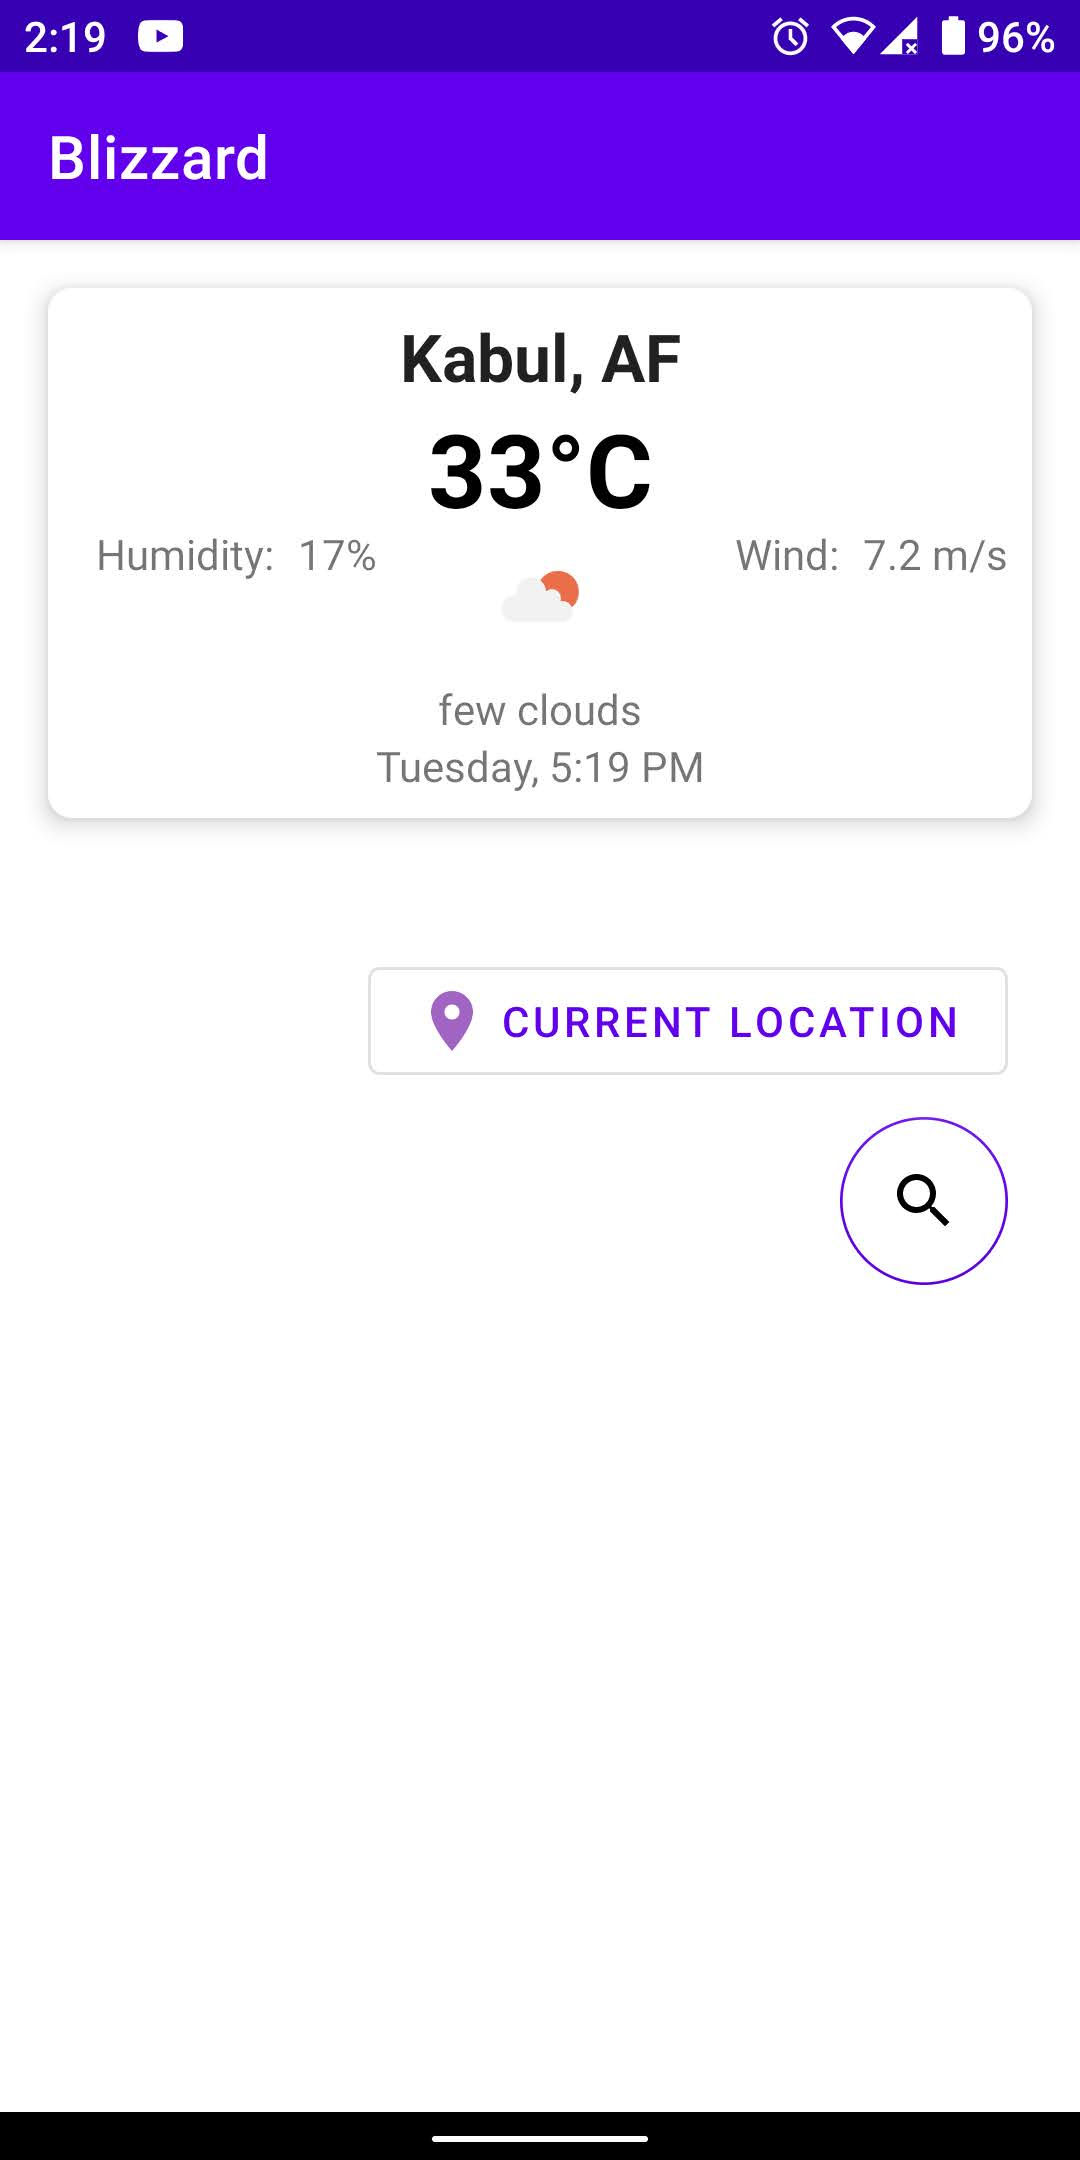
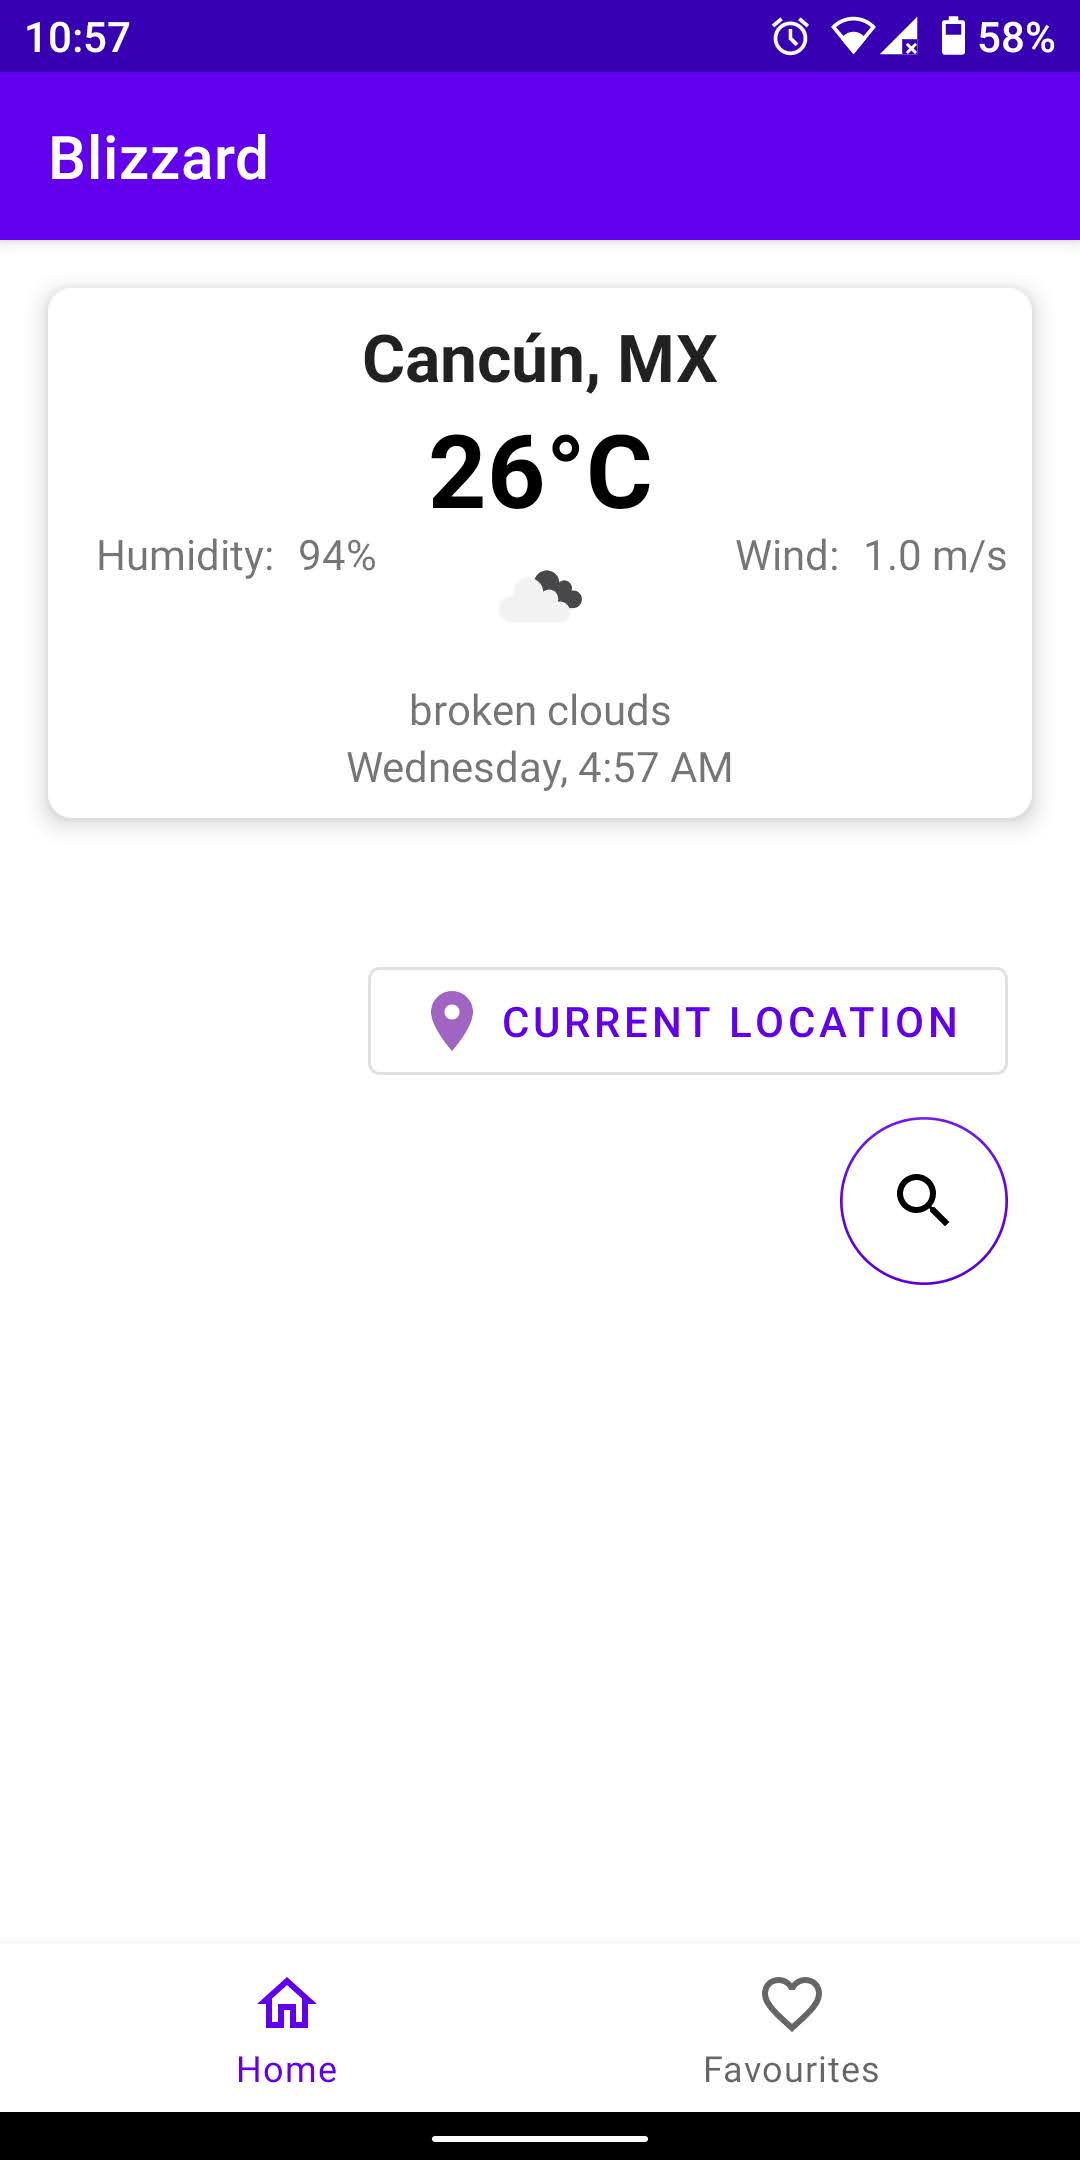
Add bottom navigation view
Added a bottom navigation view and added a
fragment that lists all the weather data
stored in the database and display them in
a recycler view.

App now displays a snack bar like before when
user enters an incorrect city name.

Update ReadMe with screenshots of current state
of the app.

diff --git a/app/src/main/java/com/example/blizzard/workers/DataUpdateWorker.java b/app/src/main/java/com/example/blizzard/workers/DataUpdateWorker.java
@@ -28,6 +28,7 @@ import retrofit2.Response;
 public class DataUpdateWorker extends ListenableWorker {
     private static final String TAG = "DataUpdateWorker";
     private final BlizzardRepository repository;
+    private Callback<WeatherDataResponse> callback;
 
     public DataUpdateWorker(@NonNull Context context, @NonNull WorkerParameters workerParams) {
         super(context, workerParams);
@@ -46,7 +47,7 @@ public class DataUpdateWorker extends ListenableWorker {
                 completer.set(Result.success());
             }
 
-            Callback<WeatherDataResponse> callback = new Callback<WeatherDataResponse>() {
+            callback = new Callback<WeatherDataResponse>() {
                 @Override
                 public void onResponse(@NotNull Call<WeatherDataResponse> call, @NotNull Response<WeatherDataResponse> response) {
                     WeatherDataResponse currentWeather = response.body();

diff --git a/README.md b/README.md
@@ -42,14 +42,15 @@ https://samples.openweathermap.org/data/2.5/weather?q=London,uk&appid=439d4b804b
 ##### Screenshots
 ##### Screenshots
 <p float="left">
-  <img src="https://github.com/lokaimoma/blizzard/blob/master/Screenshots/Screenshot_20200818-141917.jpg" width="400" />
-  <img src="https://github.com/lokaimoma/blizzard/blob/master/Screenshots/Screenshot_20200818-141927.jpg" width="400" />
-  <img src="https://github.com/lokaimoma/blizzard/blob/master/Screenshots/Screenshot_20200818-142147.jpg" width="400" />
-  <img src="https://github.com/lokaimoma/blizzard/blob/master/Screenshots/Screenshot_20200818-142154.jpg" width="400" />
-  <img src="https://github.com/lokaimoma/blizzard/blob/master/Screenshots/Screenshot_20200818-215708.jpg" width="400" />
-  <img src="https://github.com/lokaimoma/blizzard/blob/master/Screenshots/Screenshot_20200818-215716.jpg" width="400" />
-  <img src="https://github.com/lokaimoma/blizzard/blob/master/Screenshots/Screenshot_20200818-230334.jpg" width="400" />
-  <img src="https://github.com/lokaimoma/blizzard/blob/master/Screenshots/Screenshot_20200819-021929.jpg" width="400" />
+  <img src="https://github.com/lokaimoma/blizzard/blob/master/Screenshots/Screenshot_20200819-104313.jpg" width="300 height="auto" />
+  <img src="https://github.com/lokaimoma/blizzard/blob/master/Screenshots/Screenshot_20200818-141917.jpg" width="300 height="auto" />
+  <img src="https://github.com/lokaimoma/blizzard/blob/master/Screenshots/Screenshot_20200818-141927.jpg" width="300 height="auto" />
+  <img src="https://github.com/lokaimoma/blizzard/blob/master/Screenshots/Screenshot_20200818-142147.jpg" width="300 height="auto" />
+  <img src="https://github.com/lokaimoma/blizzard/blob/master/Screenshots/Screenshot_20200818-142154.jpg" width="300 height="auto" />
+  <img src="https://github.com/lokaimoma/blizzard/blob/master/Screenshots/Screenshot_20200818-215708.jpg" width="300 height="auto" />
+  <img src="https://github.com/lokaimoma/blizzard/blob/master/Screenshots/Screenshot_20200818-215716.jpg" width="300 height="auto" />
+  <img src="https://github.com/lokaimoma/blizzard/blob/master/Screenshots/Screenshot_20200818-230334.jpg" width="300 height="auto" />
+  <img src="https://github.com/lokaimoma/blizzard/blob/master/Screenshots/Screenshot_20200819-021929.jpg" width="300 height="auto" />
 </p>
 
 
